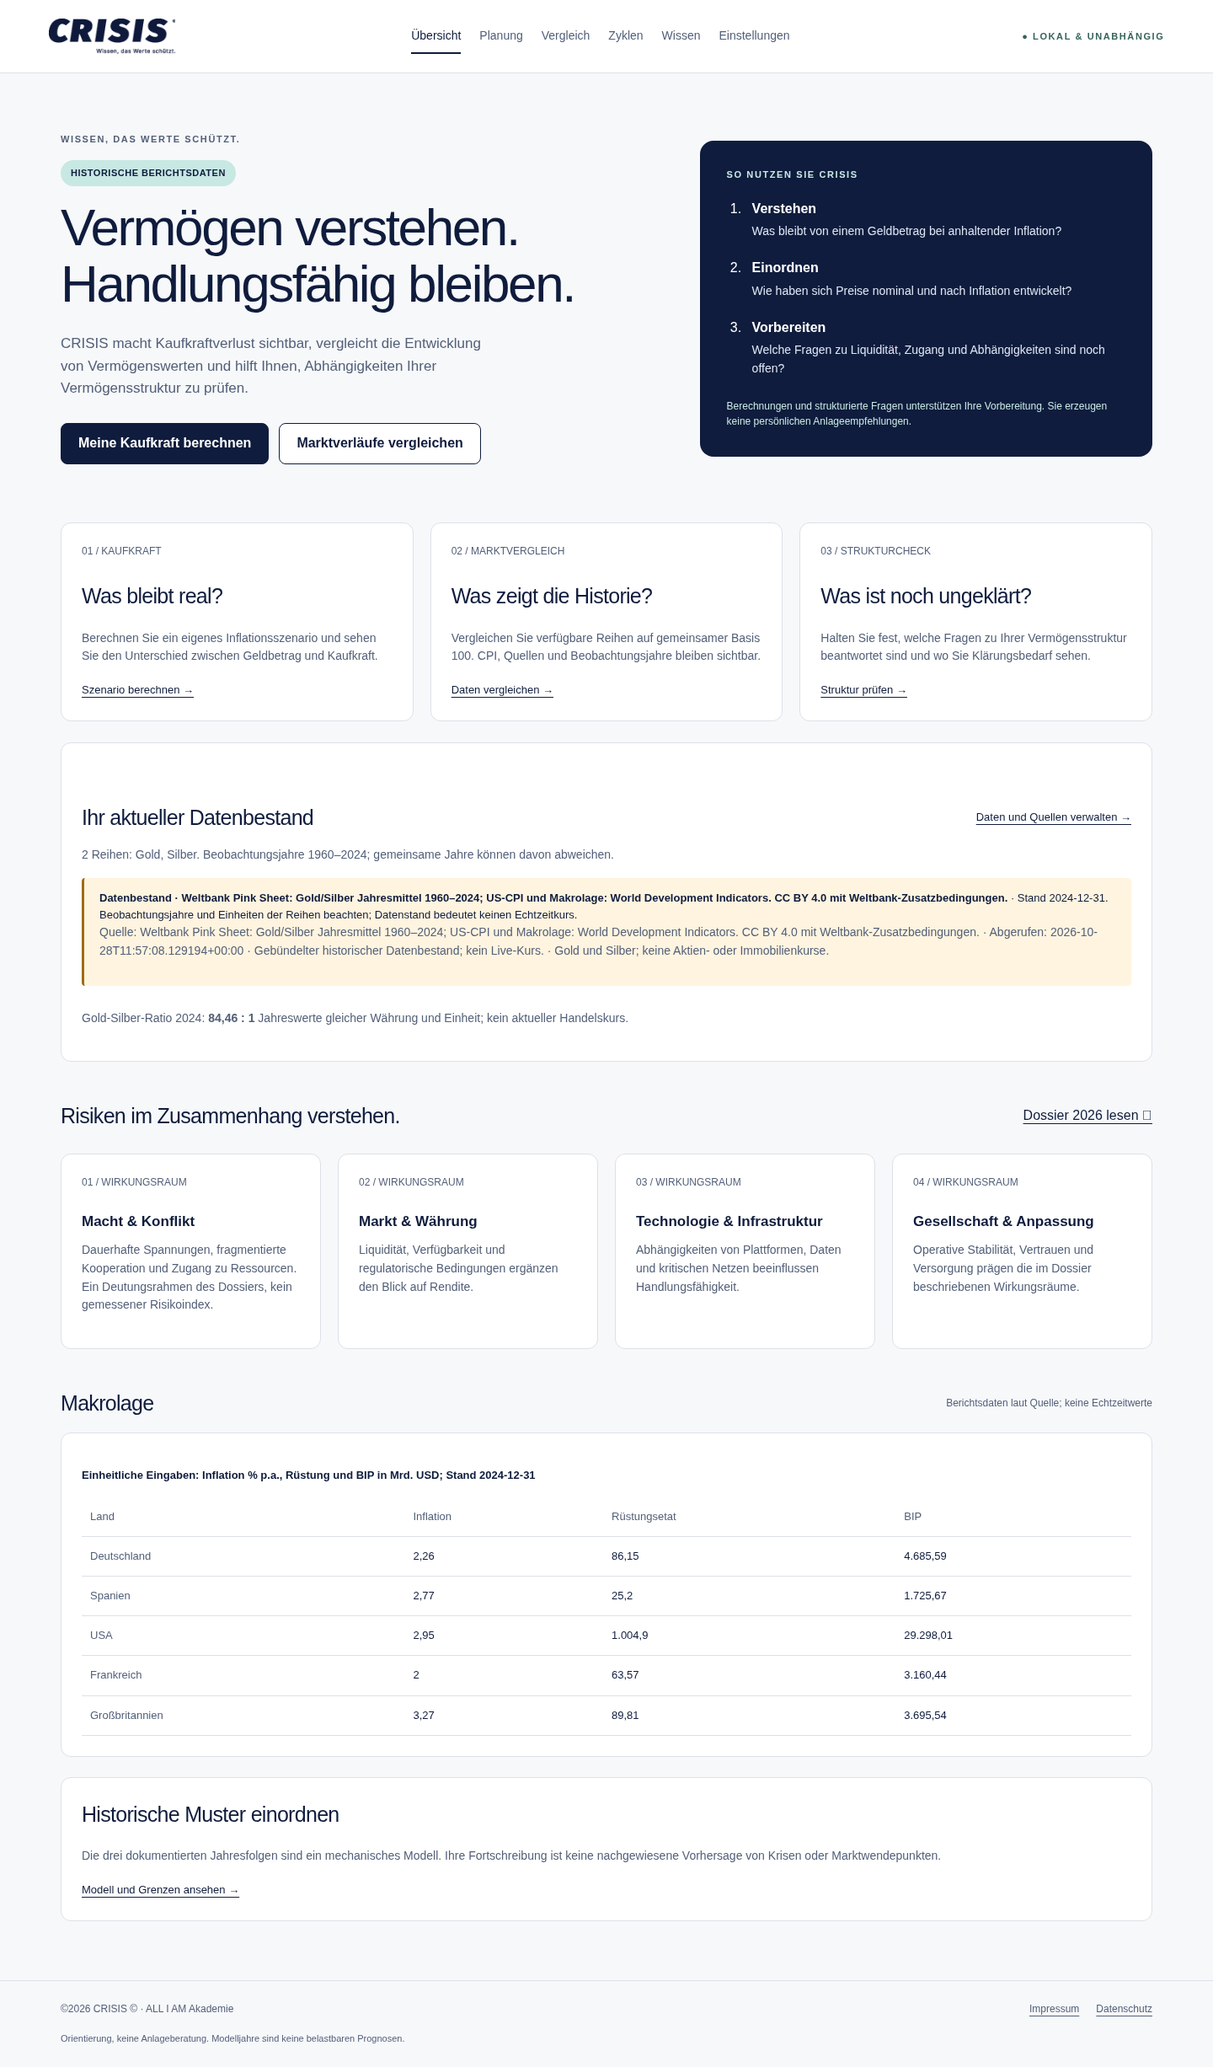
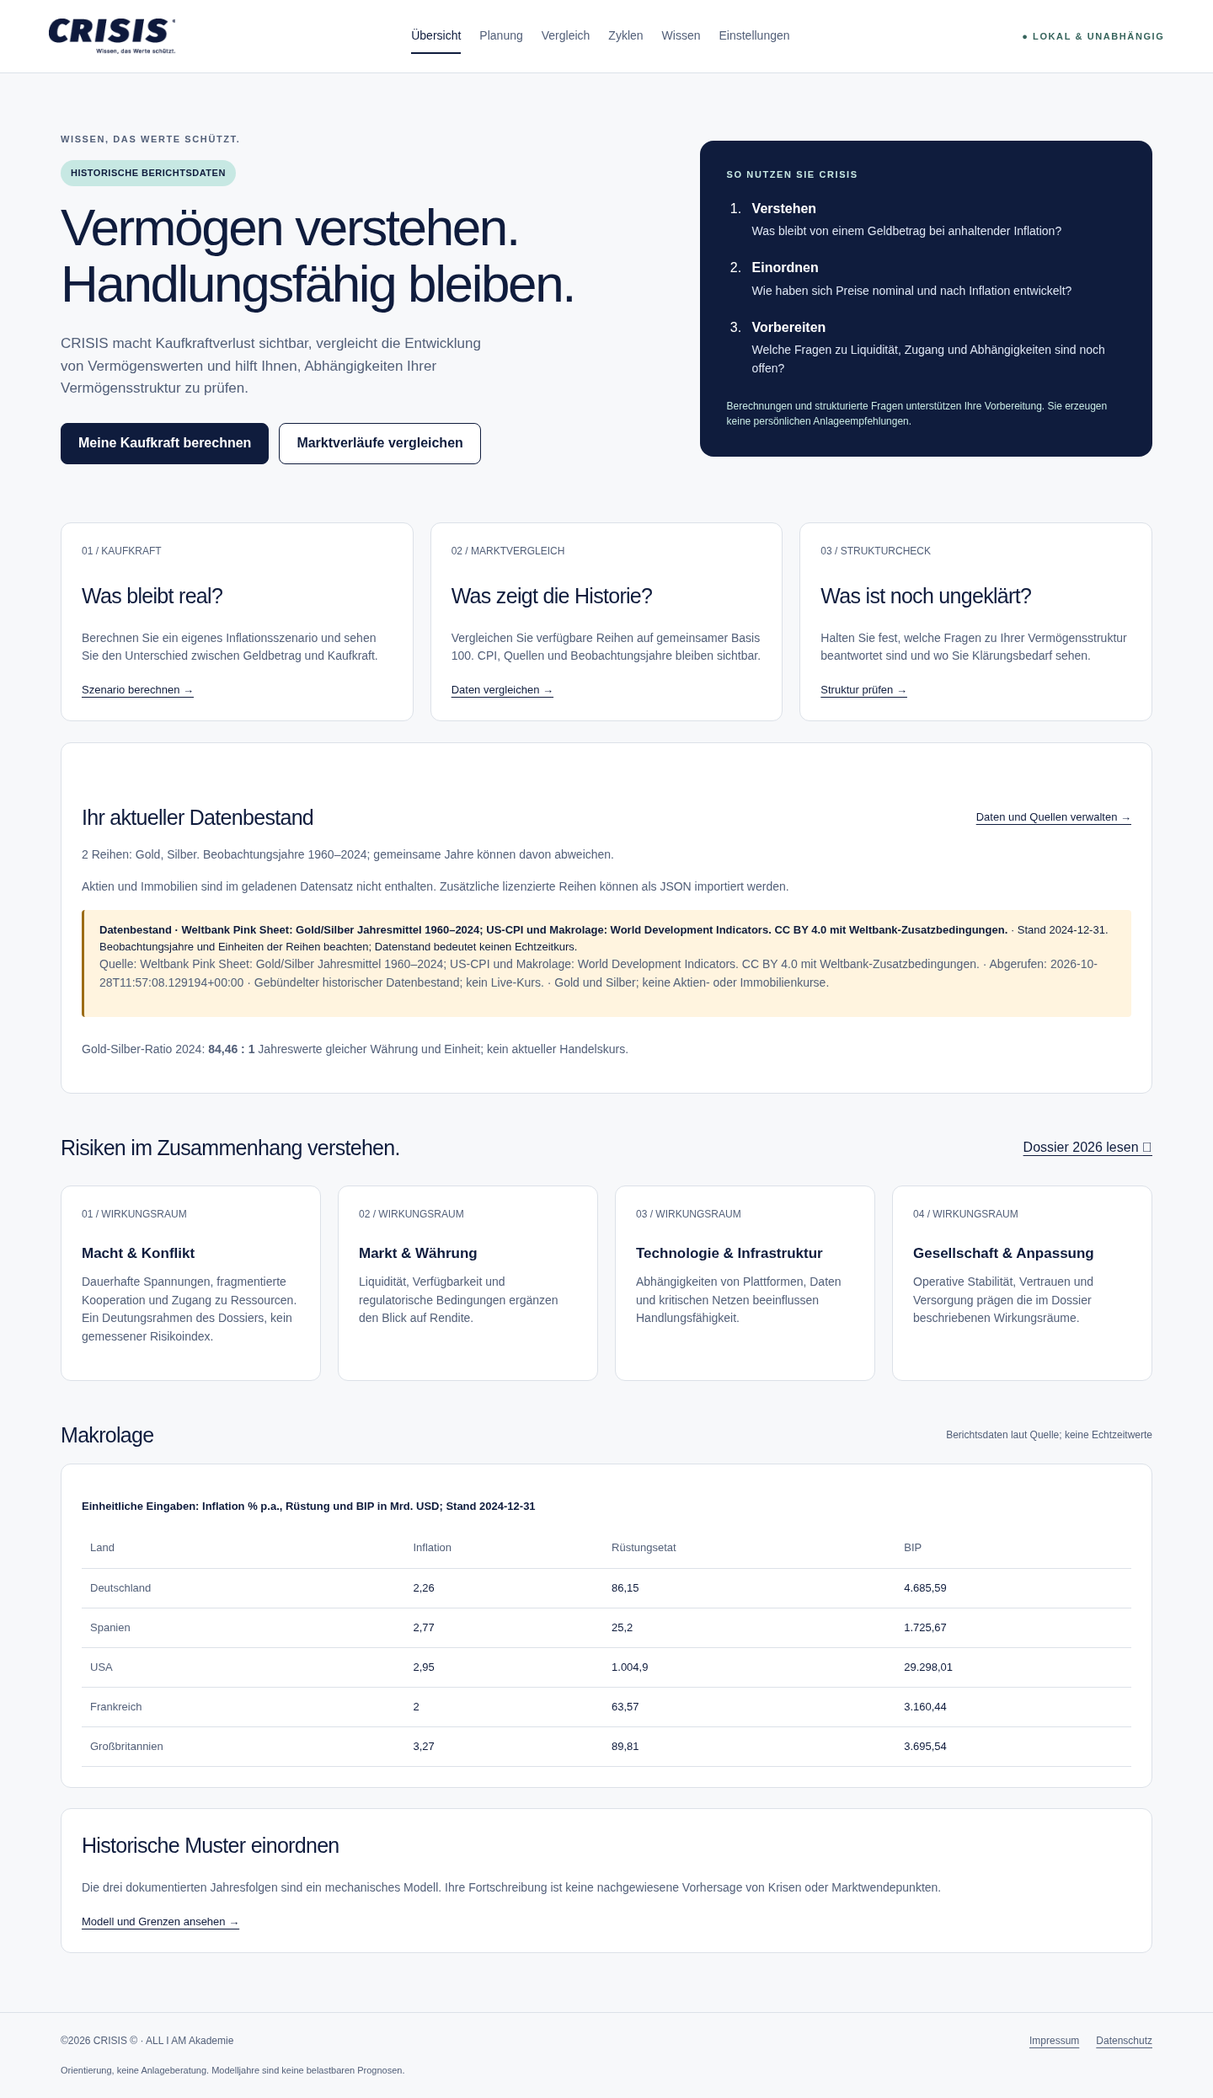
Align planning defaults, data coverage and protected deletion

diff --git a/web/app.js b/web/app.js
@@ -88,6 +88,7 @@ function installData(next, info = null) {
   storage.set("crisis-data", JSON.stringify({ data: next, provenance: info }));
   data = next;
   provenance = info;
+  historyFrom=null;historyTo=null;
   selection = data.series.slice(0, 2).map((s) => s.id);
   const years = data.series.flatMap((s) => s.points.map((p) => p.year));
   from = Math.min(...years);
@@ -208,6 +209,9 @@ function title(k, h, p) {
 function home() {
   const r = ratio(data);
   const years = data.series.flatMap((s) => s.points.map((p) => p.year));
+  const groups=new Set(data.series.map(s=>s.group.trim().toLocaleLowerCase('de')));
+  const missingGroups=['Aktien','Immobilien'].filter(group=>!groups.has(group.toLocaleLowerCase('de')));
+  const missingNotice=missingGroups.length?`<p id="missing-market-groups" class="small muted">${missingGroups.join(' und ')} sind im geladenen Datensatz nicht enthalten. Zusätzliche lizenzierte Reihen können als JSON importiert werden.</p>`:'';
   return `<section class="hero"><div>
     <p class="eyebrow">Wissen, das Werte schützt.</p>
     <span class="badge ${data.kind === "demo" ? "demo" : ""}">${data.kind === "demo" ? "Beispielmodus" : "Historische Berichtsdaten"}</span>
@@ -223,7 +227,7 @@ function home() {
   <div class="grid"><article class="card"><span class="number">01 / KAUFKRAFT</span><h2>Was bleibt real?</h2><p>Berechnen Sie ein eigenes Inflationsszenario und sehen Sie den Unterschied zwischen Geldbetrag und Kaufkraft.</p><a href="#purchasingpower">Szenario berechnen →</a></article>
   <article class="card"><span class="number">02 / MARKTVERGLEICH</span><h2>Was zeigt die Historie?</h2><p>Vergleichen Sie verfügbare Reihen auf gemeinsamer Basis 100. CPI, Quellen und Beobachtungsjahre bleiben sichtbar.</p><a href="#compare">Daten vergleichen →</a></article>
   <article class="card"><span class="number">03 / STRUKTURCHECK</span><h2>Was ist noch ungeklärt?</h2><p>Halten Sie fest, welche Fragen zu Ihrer Vermögensstruktur beantwortet sind und wo Sie Klärungsbedarf sehen.</p><a href="#structure">Struktur prüfen →</a></article></div>
-  <section class="card"><div class="section-heading"><h2>Ihr aktueller Datenbestand</h2><a href="#settings">Daten und Quellen verwalten →</a></div><p>${data.series.length} Reihen: ${data.series.map((s) => escape(s.name)).join(", ")}. Beobachtungsjahre ${Math.min(...years)}–${Math.max(...years)}; gemeinsame Jahre können davon abweichen.</p>${note()}<p>Gold-Silber-Ratio${r ? " " + r.year + ": <strong>" + fmt(r.value) + " : 1</strong>" : " ist für diesen Datenbestand nicht verfügbar."} ${data.kind === "demo" ? "Synthetisches Rechenbeispiel." : "Jahreswerte gleicher Währung und Einheit; kein aktueller Handelskurs."}</p></section>
+  <section class="card"><div class="section-heading"><h2>Ihr aktueller Datenbestand</h2><a href="#settings">Daten und Quellen verwalten →</a></div><p>${data.series.length} Reihen: ${data.series.map((s) => escape(s.name)).join(", ")}. Beobachtungsjahre ${Math.min(...years)}–${Math.max(...years)}; gemeinsame Jahre können davon abweichen.</p>${missingNotice}${note()}<p>Gold-Silber-Ratio${r ? " " + r.year + ": <strong>" + fmt(r.value) + " : 1</strong>" : " ist für diesen Datenbestand nicht verfügbar."} ${data.kind === "demo" ? "Synthetisches Rechenbeispiel." : "Jahreswerte gleicher Währung und Einheit; kein aktueller Handelskurs."}</p></section>
   <div class="section-heading"><h2>Risiken im Zusammenhang verstehen.</h2><a href="#library">Dossier 2026 lesen ↗</a></div><div class="grid four">${content.fields.map((f, i) => `<article class="card"><span class="number">0${i + 1} / WIRKUNGSRAUM</span><h3>${escape(f.title)}</h3><p>${escape(f.text)}</p></article>`).join("")}</div>
   <div class="section-heading"><h2>Makrolage</h2><span class="small muted">Berichtsdaten laut Quelle; keine Echtzeitwerte</span></div><div class="card table-wrap">${macroTable()}</div>
   <section class="card method-link"><h2>Historische Muster einordnen</h2><p>Die drei dokumentierten Jahresfolgen sind ein mechanisches Modell. Ihre Fortschreibung ist keine nachgewiesene Vorhersage von Krisen oder Marktwendepunkten.</p><a href="#cycles">Modell und Grenzen ansehen →</a></section>`;
@@ -244,7 +248,7 @@ function powerResults(result, context) {
 }
 function purchasingPowerView() {
   const years = data.cpi.map((p) => p.year);
-  if (!years.includes(historyFrom)) historyFrom = years[0];
+  if (!years.includes(historyFrom)) historyFrom = years.find(year=>year>=years.at(-1)-10&&year<years.at(-1))??years[0];
   if (!years.includes(historyTo)) historyTo = years.at(-1);
   return (
     title(
@@ -600,6 +604,10 @@ function render() {
       }
     };
     $("#delete-plan").onclick = () => {
+      if(!window.confirm('Alle lokalen Angaben im Strukturcheck einschließlich Notizen und nächstem Prüfschritt löschen? Dies betrifft keine Marktdaten.')){
+        showPlanMessage('Löschen abgebrochen. Ihre Angaben bleiben erhalten.');
+        return;
+      }
       try {
         storage.remove("crisis-plan");
         plan = emptyPlan(planning.questions);

diff --git a/ios/CRISIS/PlanningViews.swift b/ios/CRISIS/PlanningViews.swift
@@ -30,7 +30,7 @@ struct PurchasingPowerView: View {
    Text("Historische Preisentwicklung nachvollziehen und eine eigene Zukunftsannahme getrennt durchrechnen.")
    Panel(title: "Historischer Kaufkraftvergleich") {
     Text("CPI: \(store.data.cpiRegion). Quelle: \(store.data.source). Datenstand: \(store.data.asOf).").font(.caption)
-    Text("Einheit: CPI-Bezugswährung / Geldeinheiten. Der geladene US-CPI beschreibt US-Kaufkraft und ist keine EUR-Umrechnung.").font(.footnote)
+    Text("Einheit: CPI-Bezugswährung / Geldeinheiten. Die Rechnung verwendet den CPI-Bezugsraum des geladenen Datensatzes: \(store.data.cpiRegion). Es findet keine Währungsumrechnung statt.").font(.footnote)
     TextField("Betrag ohne Tausendertrennzeichen", text: $amount).keyboardType(.decimalPad).textFieldStyle(.roundedBorder).accessibilityIdentifier("power-amount")
     HStack {
      TextField("Startjahr", text: $from).keyboardType(.numberPad).accessibilityLabel("Startjahr Kaufkraft").accessibilityIdentifier("power-from")
@@ -42,8 +42,8 @@ struct PurchasingPowerView: View {
      VStack(alignment: .leading, spacing: 8) {
       Text("\(number(r.amount)) → \(number(r.remainingPower)) Geldeinheiten Kaufkraft").font(.title3)
       Text("Benötigter Betrag im Endjahr für gleiche Kaufkraft: \(number(r.requiredAmount))")
-      Text("Preisänderung: \(number(r.priceChangePercent)) % · Kaufkraftverlust: \(number(r.lossPercent)) %")
-      Text("Ein negativer Kaufkraftverlust bedeutet einen Kaufkraftzuwachs. Die Rechnung unterstellt einen unveränderten nominalen Betrag ohne Zinsen oder Kosten.").font(.caption)
+      Text("Preisänderung: \(number(r.priceChangePercent)) % · \(r.lossPercent < 0 ? "Kaufkraftgewinn" : "Kaufkraftverlust"): \(number(abs(r.lossPercent))) %")
+      Text("Die Rechnung unterstellt einen unveränderten nominalen Betrag ohne Zinsen oder Kosten.").font(.caption)
      }.accessibilityElement(children: .combine).accessibilityIdentifier("power-historical-result")
     case .failure(let e): Note(text: e.localizedDescription).accessibilityIdentifier("power-historical-error")
     }
@@ -58,7 +58,7 @@ struct PurchasingPowerView: View {
      VStack(alignment: .leading, spacing: 8) {
       Text("Verbleibende Kaufkraft: \(number(r.remainingPower)) Geldeinheiten").font(.title3)
       Text("Für gleiche Kaufkraft benötigt: \(number(r.requiredAmount)) Geldeinheiten")
-      Text("Bei \(number(r.ratePercent)) % pro Jahr über \(r.years) Jahre: Preisänderung \(number(r.priceChangePercent)) % · Kaufkraftverlust \(number(r.lossPercent)) %")
+      Text("Bei \(number(r.ratePercent)) % pro Jahr über \(r.years) Jahre: Preisänderung \(number(r.priceChangePercent)) % · \(r.lossPercent < 0 ? "Kaufkraftgewinn" : "Kaufkraftverlust") \(number(abs(r.lossPercent))) %")
      }.accessibilityElement(children: .combine).accessibilityIdentifier("power-scenario-result")
     case .failure(let e): Note(text: e.localizedDescription).accessibilityIdentifier("power-scenario-error")
     }

diff --git a/android/app/src/main/java/berlin/aia/crisis/PlanningScreens.kt b/android/app/src/main/java/berlin/aia/crisis/PlanningScreens.kt
@@ -22,7 +22,7 @@ import androidx.compose.ui.unit.dp
 @Composable fun PurchasingPowerScreen(data: MarketData) {
  var scenario by rememberSaveable {mutableStateOf(false)}
  var amount by rememberSaveable {mutableStateOf("10000")}
- var from by rememberSaveable(data) {mutableStateOf((data.cpi.find {it.year==2000}?.year ?: data.cpi.first().year).toString())}
+ var from by rememberSaveable(data) {mutableStateOf((data.cpi.find {it.year>=data.cpi.last().year-10 && it.year<data.cpi.last().year}?.year ?: data.cpi.first().year).toString())}
  var to by rememberSaveable(data) {mutableStateOf(data.cpi.last().year.toString())}
  var rate by rememberSaveable {mutableStateOf("3")}
  var years by rememberSaveable {mutableStateOf("10")}

diff --git a/README.md b/README.md
@@ -1,6 +1,6 @@
 # CRISIS ©
 
-Deutschsprachige Website sowie eigenständige native Android- und iOS-Anwendungen für Marktvergleiche, Zyklusmodelle und die bereitgestellten CRISIS-Unterlagen. Keine WebViews, kein Cross-Plattform-Framework. JavaScript, Kotlin und Swift implementieren die Rechenlogik unabhängig; versionierte JSON-Inhalte und Referenzfälle sichern die Konsistenz.
+CRISIS ist ein deutschsprachiger Orientierungs- und Beratungsarbeitsplatz für Kaufkrafterhalt und handlungsfähige Vermögensstrukturen: Kaufkraft verstehen, Marktverläufe einordnen, eigene Prüffragen und nächste Schritte festhalten. Website, Android und iOS setzen diesen Ablauf eigenständig mit JavaScript, Kotlin/Compose und Swift/SwiftUI um. Die fachlichen Ziele und die bewusst gestrichenen Leistungsversprechen stehen in [docs/PRODUKT.md](docs/PRODUKT.md).
 
 **Datenstatus:** Neue Installationen starten mit echten Weltbank-Jahresdaten für Gold und Silber von 1960 bis 2024, US-CPI und Makroindikatoren für die fünf dokumentierten Länder. Quelle, Berichtsjahr und Lizenz stehen im Datensatz. Aktuelle Gold-/Silber-Einzelkurse können über den Node-Server ausdrücklich abgerufen werden; Verfügbarkeit und Anbieterzeitstempel sind sichtbar. Börsen- und Immobilienkurse sind damit weiterhin nicht abgedeckt. Synthetische Beispieldaten bleiben als gesonderter Demonstrationsmodus verfügbar. Eine validierte Kurs- oder Krisenprognose wird nicht behauptet.
 
@@ -52,8 +52,10 @@ Den Simulatornamen gegebenenfalls mit `xcrun simctl list devices available` ermi
 
 ## Funktionen auf allen Plattformen
 
-- Übersicht mit vier Wirkungsräumen aus dem Dossier, Gold-Silber-Ratio und Makrolage für Deutschland, Spanien, USA, Frankreich und Großbritannien.
-- Mehrfachvergleich von Gold, Silber, DAX, Dow Jones, LSEG.L und Immobilienpreisen für Berlin, Mallorca/Palma, Paris, London und New York; beliebige weitere importierte Reihen.
+- Zweckorientierte Arbeitsübersicht mit direkten Wegen zu Kaufkraft, Vergleich und Strukturcheck sowie tatsächlicher Datenabdeckung und Makro-Jahreswerten.
+- Historischer Kaufkraftrechner anhand exakter CPI-Jahre, getrennt von eigenen Inflationsannahmen. Benötigter Endbetrag und Kaufkraft eines unveränderten Betrags werden unterschieden; Deflation bleibt erkennbar. Die CPI-Region wird nicht mit einer anderen Währung verwechselt.
+- Fünfteiliger Strukturcheck zu Liquidität, tatsächlichem Zugriff, Abhängigkeiten, Alternativen und Entscheidungen. Eigene Notizen, nächster Prüfschritt, Zuständigkeit und Datum bleiben lokal; explizites Speichern, bestätigtes Löschen und TXT-Bericht für ein Gespräch.
+- Mehrfachvergleich tatsächlich geladener Reihen. Der echte Basisbestand enthält Gold und Silber; DAX, Dow Jones, LSEG.L und Immobilien für die dokumentierten Städte sind über eigene Daten oder den klar bezeichneten Beispielmodus auswertbar. Fehlende echte Reihen werden sichtbar benannt.
 - Jahresfilter, gemeinsame Basis 100, nominale oder CPI-bereinigte Entwicklung, Diagramm, textliche Ergebnisse und CSV-Export.
 - Drei exakt rekonstruierte Jahresfolgen, Jahresprüfung und Szenariofortschreibung bis 2126.
 - Suche und vollständige Lesefassungen aller sechs PDFs sowie 25 dokumentierte Quellenlinks. Die Website bietet zusätzlich Original-PDFs; die Apps lesen die vollständigen extrahierten Texte offline.
@@ -69,11 +71,14 @@ Den Simulatornamen gegebenenfalls mit `xcrun simctl list devices available` ermi
 | `ios/` | SwiftUI, Swift Charts, native Datei- und Exportdialoge |
 | `shared/` | Kanonische Inhalte, Beispiel- und Referenzdaten, JSON-Schema, 13 Original-EPS-Logos |
 | `docs/ANALYSE.md` | Dokumentenanalyse, Entscheidungen und Anforderungszuordnung |
+| `docs/PRODUKT.md` | Zweck, aktueller Kernablauf und angepasste Anforderungen |
 | `docs/DATEN.md` | Importvertrag, Berechnungen und Anbieterintegration |
 | `docs/TESTS.md` | Tatsächliche Ergebnisse, Grenzen und native Abnahme |
 | `tools/` | Lokaler Server und reproduzierbare Hilfsskripte |
 
 `python3 tools/generate-content.py` synchronisiert die kanonischen Inhalte und Plattformbundles aus den archivierten PDF-Texten. `python3 tools/generate-xcode.py` erzeugt das eingecheckte Xcode-Projekt deterministisch. Änderungen an Plattformbundles direkt würden beim nächsten Synchronisieren überschrieben.
+
+Persönliche Strukturchecks werden getrennt von Marktdaten gespeichert: Web `crisis-plan` im lokalen Browser-Speicher, Android in der privaten Datei `structure-plan.json`, iOS in der privaten Datei `planning.json`. Es gibt keine Synchronisation und keine Übertragung dieser Antworten an den Marktdatenadapter. Ein TXT-Export enthält bewusst die eingegebenen Notizen. Marktdaten wiederherstellen löscht den Strukturcheck nicht; dafür gibt es einen eigenen bestätigten Löschvorgang.
 
 ## Vor einer Veröffentlichung
 

diff --git a/docs/ANALYSE.md b/docs/ANALYSE.md
@@ -1,5 +1,7 @@
 # Dokumentenanalyse und Umsetzungsplan
 
+Die aktuelle Produktdefinition und Abnahmekriterien stehen in [PRODUKT.md](PRODUKT.md). Die folgende Dokumentenanalyse hält die Herkunft der Ziele fest und wird nicht als zusätzliches, widersprechendes Leistungsversprechen verstanden.
+
 Nachtrag: Die ursprünglichen PDF-Unterlagen enthalten selbst keine Kursreihen. Zusätzlich wurden inzwischen externe echte Weltbank-Reihen und ein öffentlicher HTTPS-Kursadapter integriert; Abdeckung, Zeitstände und Nutzungsbedingungen stehen in [MARKTDATEN.md](MARKTDATEN.md). Native Build- und Simulatorprüfungen werden nun über GitHub Actions durchgeführt. Der aktuelle Nachweis steht in [TESTS.md](TESTS.md).
 
 Stand: 28. Oktober 2026. Alle sechs PDFs wurden vollständig mit `pdftotext -layout` extrahiert; Formel- und Farbdokument wurden zusätzlich visuell geprüft. Das ZIP enthält 13 EPS-Logos (vier Hintergrundvarianten, neun Plain-Varianten); macOS-Metadateien wurden ausgeschlossen. Das originale Midnight-Blue-Logo wird unverändert als Rasterableitung in allen Anwendungen verwendet. Alle EPS-Dateien bleiben unter `shared/logos/` erhalten.
@@ -33,10 +35,10 @@ Es gibt bewusst keine Backend-Abhängigkeit für den lokalen Funktionsumfang. Br
 
 | Anforderung | Website | Android | iOS | Nachweis |
 | --- | --- | --- | --- | --- |
-| Marke, Palette, Partnerbranding | `style.css`, `app.js` | `MainActivity.kt` | `CrisisApp.swift` | Browserpersistenz geprüft; native UI-Abnahme offen |
-| Nominal-/Realvergleich und Diagramm | `core.js`, `draw()` | `CrisisEngine.compare`, `Plot` | `CrisisEngine.compare`, Swift Charts | JS- und Kotlin-Referenztests; Swift-Testfälle angelegt |
+| Marke, Palette, Partnerbranding | `style.css`, `app.js` | `MainActivity.kt` | `CrisisApp.swift` | Browser- und native Simulatorprüfungen; physische Abnahme offen |
+| Nominal-/Realvergleich und Diagramm | `core.js`, `draw()` | `CrisisEngine.compare`, `Plot` | `CrisisEngine.compare`, Swift Charts | JS-, Kotlin- und Swift-Referenztests; siehe TESTS.md |
 | Drei Zyklen und 100-Jahre-Szenario | `cycleYears` | `years` | `years` | Exakte PDF-Sequenzen und Randwerte als Tests |
-| Historische Kursdaten / Live-Makro | JSON-Import | JSON-Import | JSON-Import | Schnittstelle implementiert; reale Datenlieferung fehlt |
+| Historische Kursdaten / aktuelle Kurse | Weltbank-Bestand und HTTPS-Adapter | Bestand, Import, eigener HTTPS-Adapter | Bestand, Import, eigener HTTPS-Adapter | Echte Gold-/Silber- und CPI-Reihen, getrennte Einzelkurse; weitere Assetklassen offen |
 | Gold-Silber-Ratio | `ratio` | `ratio` | `ratio` | Nur gemeinsame Jahre und gleiche Einheit/Währung |
 | Makrolage fünf Länder | Übersicht | Übersicht | Übersicht | Fehlende Werte bleiben „Nicht verfügbar“ |
 | Alle Dokumente und Suche | Wissen/PDFs/Text | Wissen/Text offline | Wissen/Text offline | Sechs Dokumente, vollständige Textseiten |
@@ -51,3 +53,5 @@ Es gibt bewusst keine Backend-Abhängigkeit für den lokalen Funktionsumfang. Br
 - Die Jahresfenster 1926–2126 beziehen sich auf das dokumentierte Wirkungsjahr 2026, nicht auf ein stillschweigend jährlich veränderliches Modell.
 - Reale Indizes nutzen einen ausdrücklich benannten CPI. Keine versteckte Währungsumrechnung und kein Total-Return-Versprechen.
 - API-Anbindung bleibt eine klar bezeichnete externe Voraussetzung. Ein interaktiver lokaler Funktionsumfang ist fertigstellbar; ein vollständiges datenbasiertes Produktions-Frühwarnsystem lässt sich aus diesen Unterlagen allein nicht herleiten.
+
+Die nachfolgende Produktentwicklung ergänzt die Quellenziele um einen historischen Kaufkraftrechner, getrennte Inflationsannahmen und einen lokal gespeicherten Strukturcheck. Diese Werkzeuge unterstützen die im Dossier betonte Vorbereitung und Wiederprüfung eigener Entscheidungen. Eine individuelle Krisenwahrscheinlichkeit wird daraus nicht berechnet.

diff --git a/docs/PRODUKT.md b/docs/PRODUKT.md
@@ -39,6 +39,7 @@ Der persönliche Strukturcheck und sein Export sind neue Produktentscheidungen, 
 ### Kaufkraft
 
 - Historisch: exakte vorhandene CPI-Start- und Endjahre, keine Interpolation. Endjahr muss nach Startjahr liegen.
+- Der Einstieg zeigt nach Möglichkeit etwa zehn Jahre bis zum letzten Berichtsjahr, anhand tatsächlich vorhandener CPI-Werte; der gesamte verfügbare Zeitraum bleibt wählbar. So beginnt die Rechnung auf allen Plattformen mit demselben überschaubaren Horizont.
 - Faktor `CPI(Ende)/CPI(Start)`. Für Betrag A: benötigter nominaler Endbetrag `A × Faktor`; Kaufkraft des unveränderten Betrags in Einheiten des Startjahrs `A / Faktor`.
 - Preisänderung und Kaufkraftverlust werden nicht verwechselt. CPI 100→121 bedeutet 21 % Preissteigerung und rund 17,36 % Kaufkraftverlust.
 - Die CPI-Region ist sichtbar. Die eingebauten Daten beschreiben die USA; keine Aussage über deutsche/EUR-Kaufkraft und keine Devisenumrechnung.
